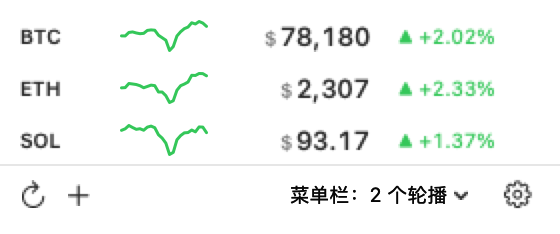
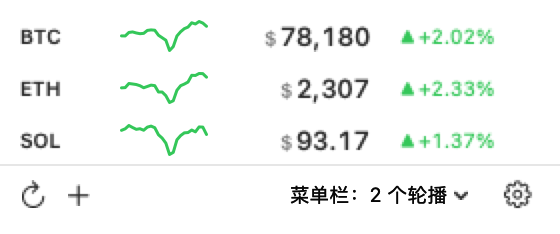
面板的箭头和涨跌幅之间也用细空格
和菜单栏的符号与数字一样，普通空格（10pt 下 2.84pt）会把「▲ +2.02%」拆成
两截，读起来像两个读数。细空格 1.75pt，箭头仍然指着数字，但两者是一组。

Assisted-by: Cindy (https://cindy.app)

Changed region(s): [[0.6982, 0.3291, 0.8804, 0.4188], [0.6982, 0.1197, 0.8804, 0.2094], [0.6982, 0.5684, 0.8804, 0.6282]]

diff --git a/Sources/PriceBar/PanelView.swift b/Sources/PriceBar/PanelView.swift
@@ -209,11 +209,17 @@ private struct PriceRow: View {
         }
     }
 
+    /// A thin space after the arrow, the same one the menu bar uses between
+    /// its symbol and its number: the arrow points, it is not part of the
+    /// figure, but a full space opens a gap wide enough to read as two
+    /// separate readings.
     private var changeText: String {
-        if quote.change > 0 { return "▲ " + formatSigned(quote.change) }
-        if quote.change < 0 { return "▼ " + formatSigned(quote.change) }
+        if quote.change > 0 { return "▲" + Self.thinSpace + formatSigned(quote.change) }
+        if quote.change < 0 { return "▼" + Self.thinSpace + formatSigned(quote.change) }
         return formatSigned(quote.change)
     }
+
+    private static let thinSpace = "\u{2009}"
 
     private var changeColor: Color {
         store.changeColors.color(for: quote.change)

diff --git a/README.md b/README.md
@@ -147,7 +147,8 @@ app 不知道你从哪儿来，就让你自己选。默认绿涨红跌。
 价格和涨跌幅也从同一个 x 结束，扫一眼就能上下比。
 
 涨跌幅那一格定宽 54 pt，刚好装下 `▼ -12.34%` 这种少见的两位数跌幅；再宽就是白白撑开价格和
-涨跌幅之间的距离。
+涨跌幅之间的距离。箭头和数字之间同样用细空格——箭头是方向，不是数字的一部分，但普通空格
+会把 `▲ +2.02%` 拆成两截。
 
 ## 关于行情线
 
